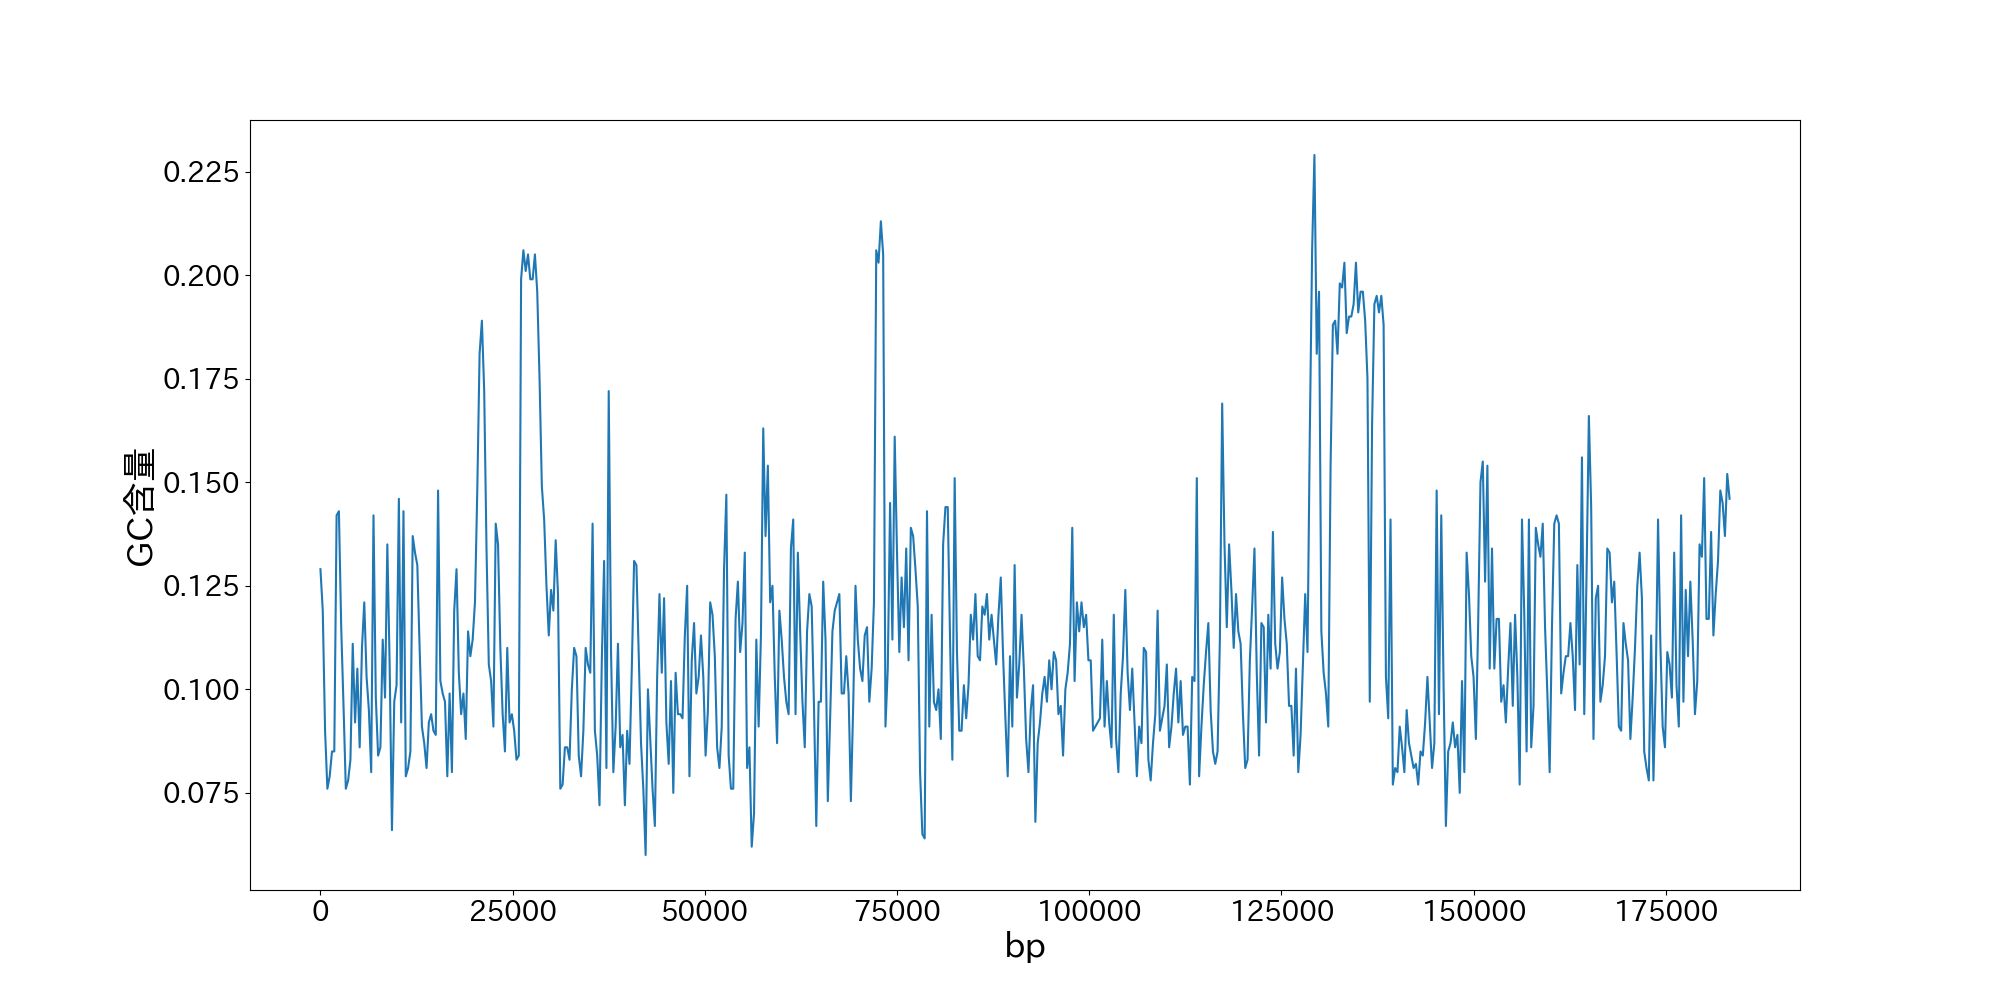
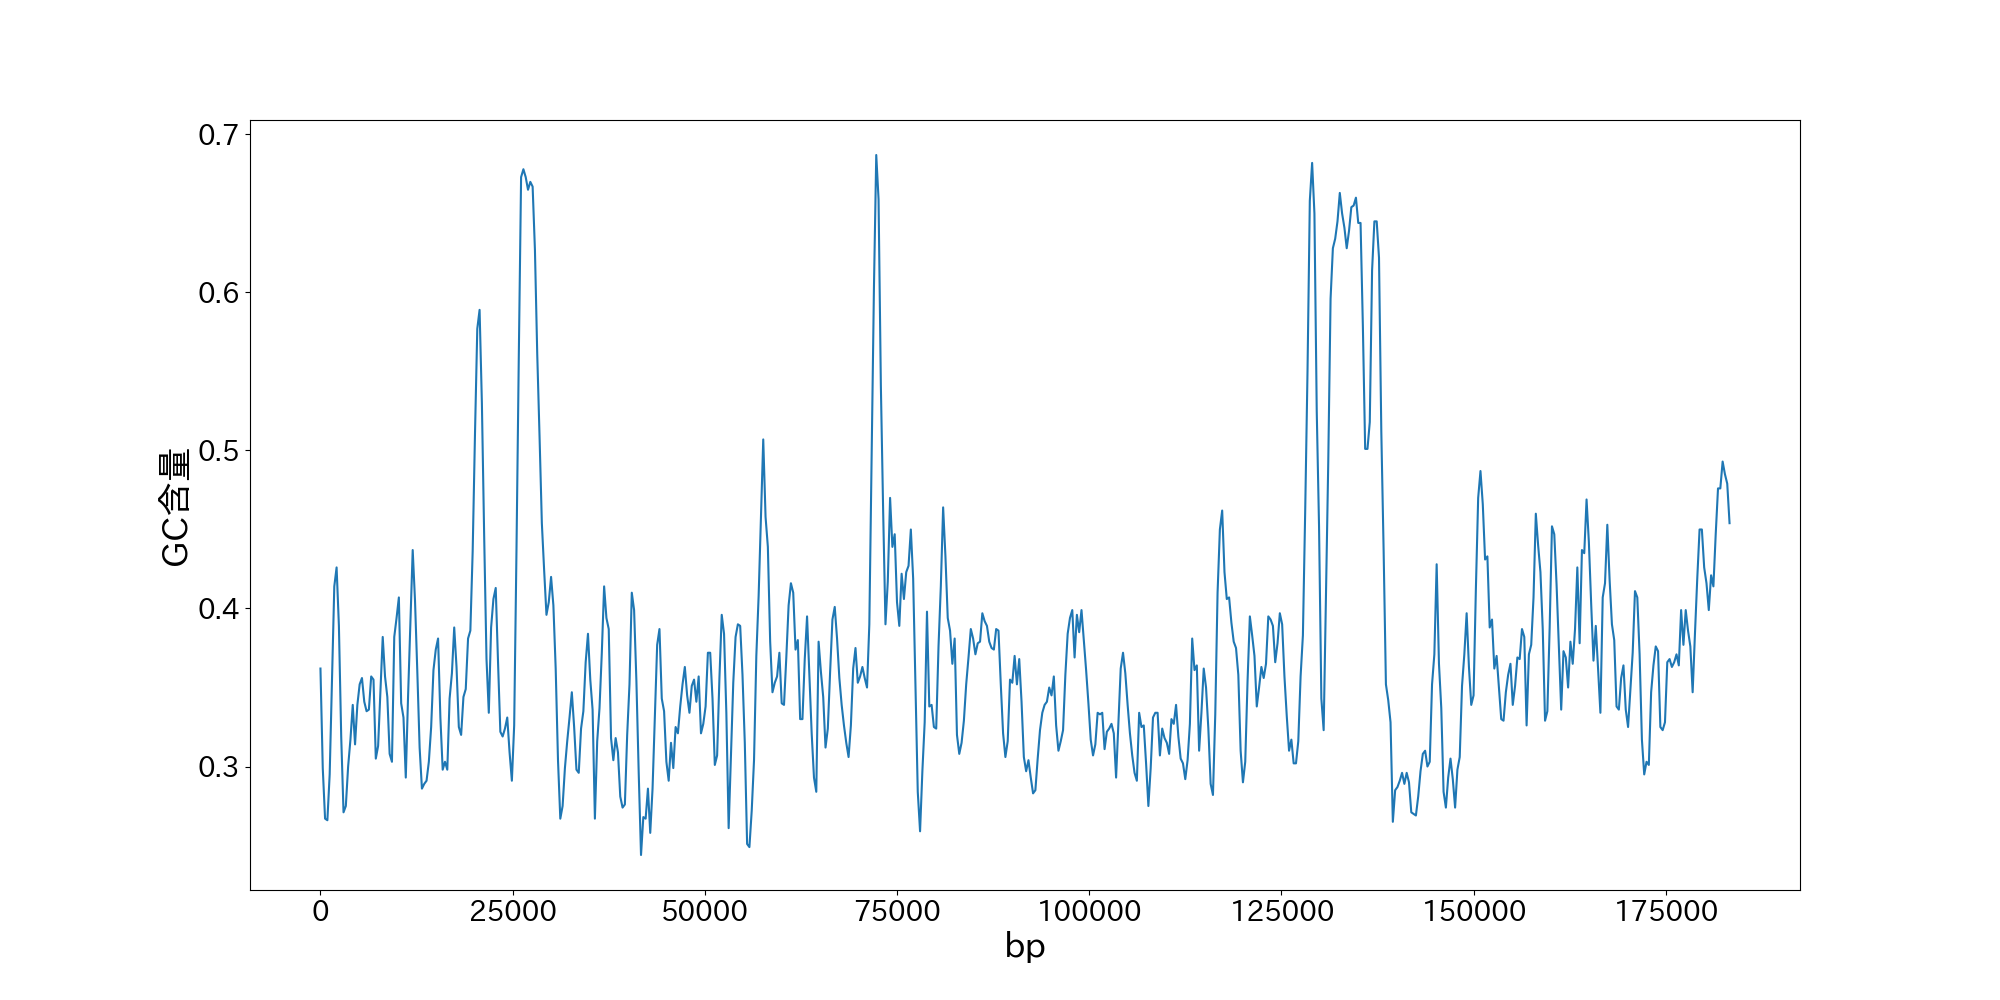
#8 step->wid

diff --git a/01_dna/m1_3.py b/01_dna/m1_3.py
@@ -12,7 +12,8 @@ plt.rcParams["font.size"] = 20
 def calc_gc(word, wid=1000, step=300):
     result = []
     for i in range(0, len(word)-wid, step):
-        buf = word[i:i+step]
+        buf = word[i:i+wid]
+        print(len(buf))
         result.append((buf.count('G') + buf.count('C')) / wid)
     return result
 
